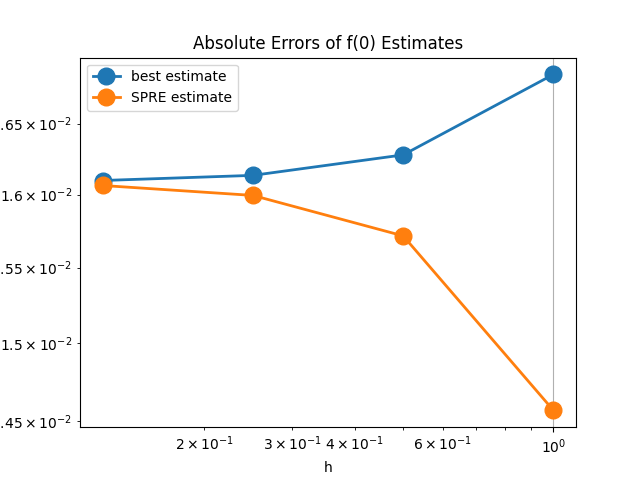
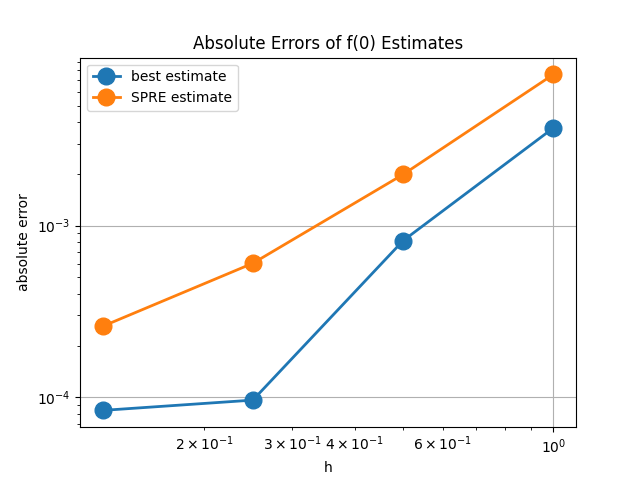
Update of evaluation of diffusion to origin

diff --git a/src/models.py b/src/models.py
@@ -606,12 +606,12 @@ class DiffusionModel(Model):
     
     def set_true_value(self):
         # Get corner value
-        self.true_value = self.diffusion_solution_2d(-1, -1, self.total_time) 
+        self.true_value = self.diffusion_solution_2d(0, 0, self.total_time) 
 
     def get_final_quantity(self, discrete_paras : npt.NDArray) -> float:
         
-        # Return final product species in corner
-        return self.result.data[0, 0]   
+        # Return final product species in origin        
+        return self.result.interpolate([0, 0])  
     
     def diffusion_solution_2d(self, x, y, t):
         """
